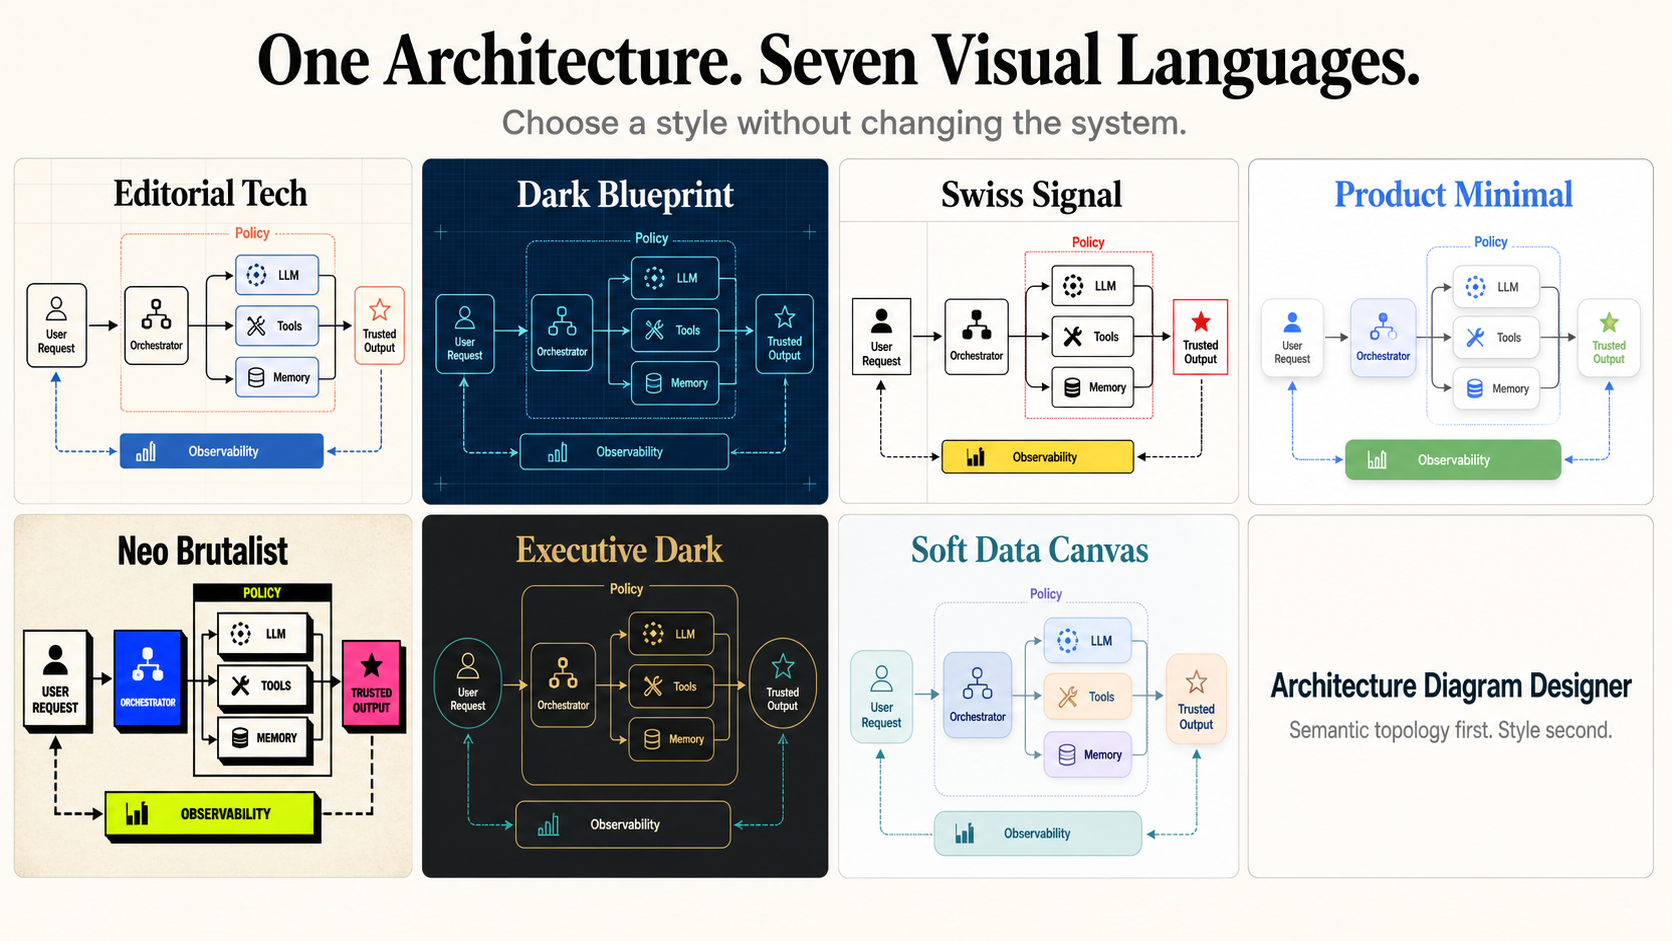
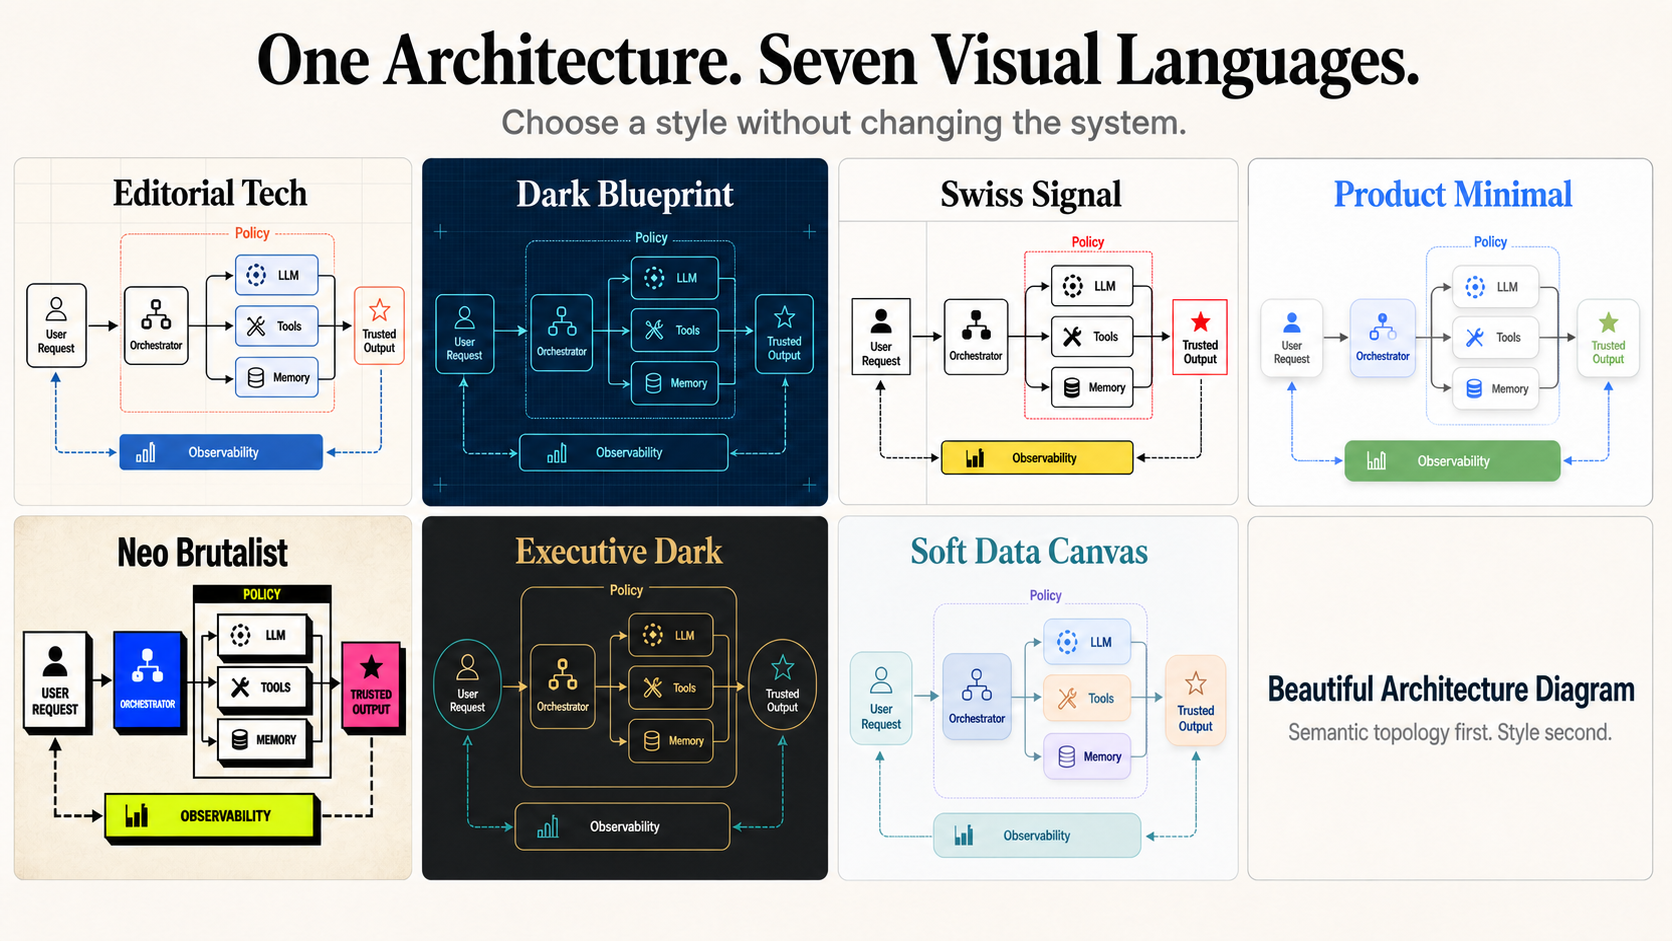
Rename skill to beautiful-architecture-diagram

diff --git a/README.zh-CN.md b/README.zh-CN.md
@@ -1,4 +1,4 @@
-# 架构图设计器
+# Beautiful Architecture Diagram｜精美架构图
 
 [English](README.md) | **简体中文**
 
@@ -23,21 +23,21 @@
 ## 快速开始
 
 ```text
-使用 $architecture-diagram-designer，为一个包含编排器、LLM、工具、记忆、
+使用 $beautiful-architecture-diagram，为一个包含编排器、LLM、工具、记忆、
 策略护栏、评估和可观测性的 Agent 平台生成架构图。
 ```
 
 直接指定内置风格：
 
 ```text
-使用 $architecture-diagram-designer 和 Dark Blueprint 风格，展示下面这个
+使用 $beautiful-architecture-diagram 和 Dark Blueprint 风格，展示下面这个
 多地域事件驱动平台：……
 ```
 
 跳过风格讨论并立即生成：
 
 ```text
-使用 $architecture-diagram-designer，自动选择最合适的风格，并根据下面的
+使用 $beautiful-architecture-diagram，自动选择最合适的风格，并根据下面的
 技术文档直接生成架构图：……
 ```
 
@@ -79,7 +79,7 @@
 将本目录复制到兼容 Codex 的 Skill 目录：
 
 ```bash
-cp -R architecture-diagram-designer ~/.agents/skills/architecture-diagram-designer
+cp -R beautiful-architecture-diagram ~/.agents/skills/beautiful-architecture-diagram
 ```
 
 如果 Skill 列表没有立即刷新，请重启 Codex 或新建一个任务。

diff --git a/README.md b/README.md
@@ -1,11 +1,11 @@
-# Architecture Diagram Designer
+# Beautiful Architecture Diagram
 
 **English** | [简体中文](README.zh-CN.md)
 
 Turn system descriptions into semantically correct, visually polished architecture-diagram images with Codex.
 
 ```text
-$architecture-diagram-designer
+$beautiful-architecture-diagram
 Generate an architecture diagram for an agent platform with an orchestrator,
 LLM, tools, memory, policy guardrails, evaluation, and observability.
 ```
@@ -57,7 +57,7 @@ This skill generates standalone architecture-diagram images. It does not create 
 Copy this directory into your Codex-compatible skill directory:
 
 ```bash
-cp -R architecture-diagram-designer ~/.agents/skills/architecture-diagram-designer
+cp -R beautiful-architecture-diagram ~/.agents/skills/beautiful-architecture-diagram
 ```
 
 Restart Codex or begin a new task if the skill catalog does not refresh immediately.

diff --git a/SKILL.md b/SKILL.md
@@ -1,9 +1,9 @@
 ---
-name: architecture-diagram-designer
+name: beautiful-architecture-diagram
 description: Create semantically correct, visually polished architecture-diagram images from system descriptions, technical documents, component lists, or visual references. Use for system context, layered, component, data-flow, event-driven, hub-and-spoke, deployment, trust-zone, ecosystem, and feedback-loop diagrams; do not use for PPT design, editable Mermaid/SVG output, or generic illustration requests.
 ---
 
-# Architecture Diagram Designer
+# Beautiful Architecture Diagram
 
 Turn technical material into one independent architecture-diagram image. Preserve the system's actual boundaries and relationships; visual polish is secondary to semantic clarity.
 
